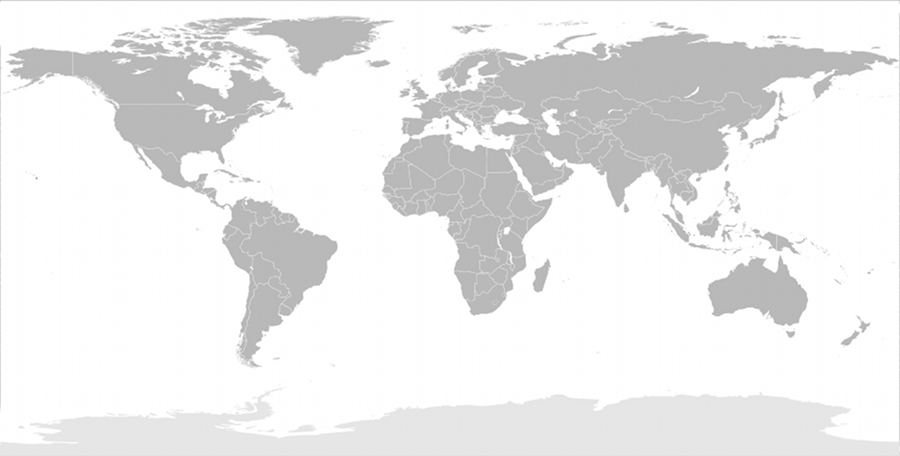
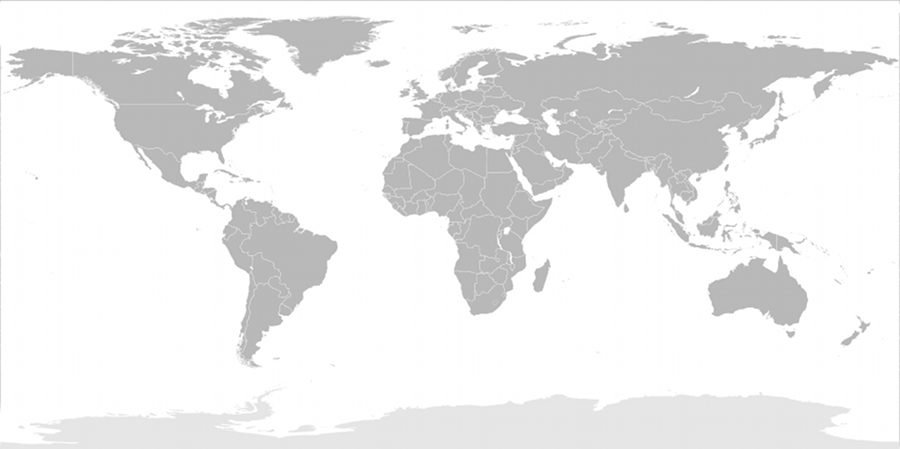
added traffic visualization on canvas ..

diff --git a/js/main.js b/js/main.js
@@ -1,6 +1,10 @@
+window.requestAnimFrame = (function(w){return w.requestAnimationFrame || w.webkitRequestAnimationFrame || w.mozRequestAnimationFrame || w.oRequestAnimationFrame || w.msRequestAnimationFrame || function(callback, element){ w.setTimeout(callback, 1000 / 60, +new Date); };})(window);
+
 (function(document,undefined){
   var canvas = document.getElementById("monitor");
   var context = canvas.getContext('2d');
+  context.fillStyle = "black";
+window.ctx = context;
   var queue = [];
 
   var socket = new io.Socket(null, {port: location.port, rememberTransport: false});
@@ -15,9 +19,23 @@
   });
   socket.connect();
 
+  function ping(x,y){
+    context.save();
+    var grad = context.createRadialGradient(x,y,0,x,y,5);
+    grad.addColorStop(0, 'rgba(0,0,0,0.3)');
+    grad.addColorStop(0.6, '#AAA');
+    context.fillStyle = grad;
+    context.beginPath();
+    context.arc(x,y,5,0,Math.PI*2,false);
+    context.fill();
+    context.restore();
+  }
+
   setInterval(function(){
     if(queue.length == 0) return;
     var hit = queue.shift();
-    console.log(hit);
+    var x = Math.floor(((hit.loc.x + 170) * 900) / 360);
+    var y = Math.floor(((90 - hit.loc.y) * 456) / 180);
+    ping(x,y);
   },200);
 })(document);

diff --git a/css/main.css b/css/main.css
@@ -1,9 +1,9 @@
 html,body{background-color:#222;color:#888;}
 header h1{color:#AAA;text-shadow:0 0 8px #000;font-size:36px;line-height:40px;margin:20px auto;}
 
-#container{position:relative;width:900px;height:450px;margin:10px auto;border-radius:5px;border:1px solid #444;box-shadow:0 0 2px #000;
+#container{position:relative;width:900px;height:456px;margin:10px auto;border-radius:5px;border:1px solid #444;box-shadow:0 0 2px #000;
   background-color:#333;background-image:url('http://static.netroy.in/images/world-map.png');}
-#monitor{position:absolute;top:0;left:0;width:900px;height:450px;}
+#monitor{position:absolute;top:0;left:0;width:900px;height:456px;}
 
 footer{font-size:12px;line-height:12px;text-shadow:0 0 4px #000;margin:20px auto;color:#888;}
 footer a{color:#057BAF;}

diff --git a/server.js b/server.js
@@ -11,7 +11,12 @@ var mimeMap = {
   "svg":"image/svg+xml",
   "png":"image/png"
 };
-var hitMap = [{country:"IN","city":"Bangalore",loc:{"y":12.9833,"x":77.5833},referer:'http://netroy.in'}];
+var hitMap = [
+  {country:"IN",city:"Bangalore",loc:{"y":12.9833,"x":77.5833},referer:'http://netroy.in'},
+  {country:"US",city:"Mountain View",loc:{"x":-122.0574,"y":37.4192}},
+  {country:"IN",city:"Allahabad",loc:{"x":81.8500,"y":25.4500}},
+  {country:"AU",city:"Phillip",loc:{"x":149.1000,"y":-35.3500}}
+];
 const MAX_BACKLOG = 100;
 
 // Load Geodata

diff --git a/index.html b/index.html
@@ -11,7 +11,7 @@
     <h1 class="georgia center">Realtime Traffic Monitor</h1>
   </header>
   <div id="container">
-    <canvas id="monitor"></canvas>
+    <canvas id="monitor" width="900" height="456"></canvas>
   </div>
   <footer class="georgia center">
     Designed, Developed and Managed by <a href="http://netroy.in">Aditya</a>. &#8226; 
